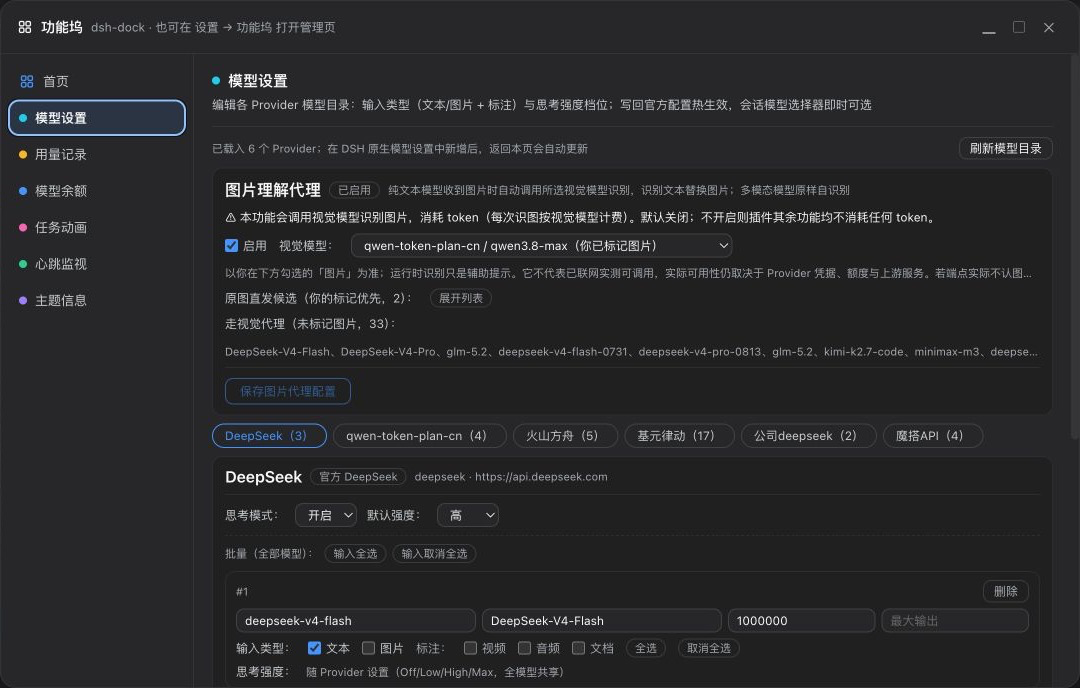
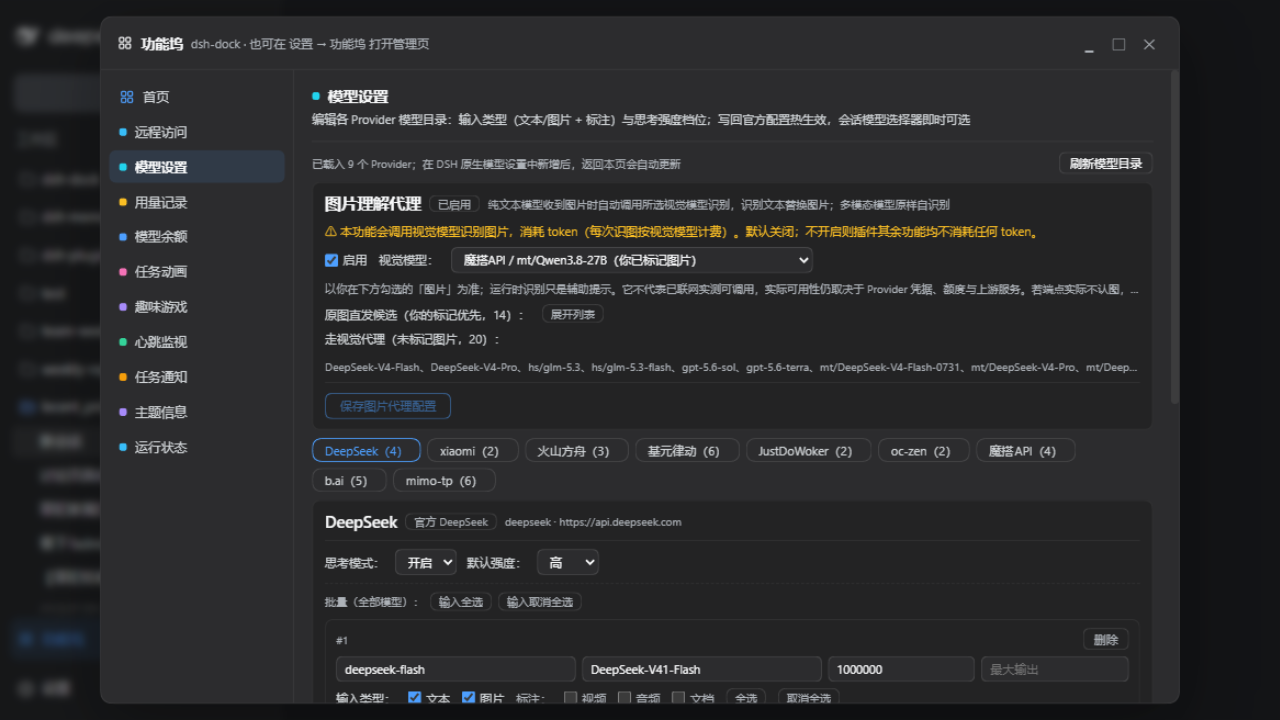
发版 v0.10.1：README 补全插件界面截图（10 张重拍，含新增 5 张）+ 文档同步
插件界面截图全部重拍（10 张，统一 1280×720），并修正 README 中已过时的界面描述。
无代码逻辑改动。

## 本次内容

- **截图全部重拍**（`screenshots/`，10 张）：
  - 新增 5 张：模型余额、任务通知、运行状态、趣味游戏、设置 → 功能坞；
  - 更新 5 张：用量记录、模型设置、任务动画、会话区随身小控件、首页总览——按 v0.10.0
    「任务通知 / 运行状态拆成独立菜单」之后的界面重拍，面板页脚版本号同步刷新为 v0.10.1。
  - 任务通知页截图对其钉钉 / 飞书 Webhook 做了**脱敏**（显示为 `••••••（已脱敏）`），
    真实群机器人地址不进仓库。
- **README**：
  - 功能一览表补【趣味游戏】条目；
  - 把已过时的「手机接力（扫码接力）」更正为菜单项实际名称【远程访问】（描述改为账号密码
    登录网关口径）；
  - 「各功能使用」下为用量记录 / 模型余额 / 任务通知 / 运行状态 / 趣味游戏补对应截图；
    「启用 / 停用功能」补设置页截图（文件内该整段有重复副本，两处同步）。
- **CHANGELOG.md**：新增 v0.10.1 段；恢复「未发布（下一版）— 开发中」占位段。
- **docs/session-notes.md**：新增 2026-09-10 一节，记录「模型列表 / 侧边栏加载慢」的定位结论
  ——是宿主进程内 dsh 自身的空转（`dsh-agent-presets` 反复扫描 preset 目录 + `commands/change`
  反馈回路），与 dsh-dock 无关：停用插件全部功能、乃至移走 `dsh-dock` agent preset 后循环依旧，
  新起的 dsh 实例（0.1.5-rc.1）均无此现象；插件用到的宿主 API 在 rc.1 中均存在。本次未改插件代码。
- 版本号两处对齐 `0.10.1`（`package.json` + `src/client.jsx` 的 `DOCK_VERSION`），
  `npm run build:client` 重建 `client.js`。

## 验证

- `npm run build:client` 通过（产物含 0.10.1）。
- `npm run test:client` 全绿：10 个内置功能视图渲染正常 + 错误隔离 + 菜单/浮层 + 双半部 id 一致。
- `npm run test:host` 全绿。
- `npm pack --dry-run` 预览：50 个文件，含全部 10 张截图，版本 0.10.1。

diff --git a/src/client.jsx b/src/client.jsx
@@ -30,7 +30,7 @@ import { feature as fGames } from "../features/games/view.jsx";
 import { feature as fMobileRelay } from "../features/mobile-relay/view.jsx";
 
 const name = "dsh-dock";
-const DOCK_VERSION = "0.10.0";
+const DOCK_VERSION = "0.10.1";
 
 // ---- 内置功能注册表：新功能 = features/<id>/ 加模块 + 这里 import 一行 ----
 const BUILTIN_FEATURES = [fTokenlog, fModelconfig, fHeartbeat, fTheme, fBalance, fAnimation, fNotify, fRunState, fGames, fMobileRelay];

diff --git a/client.js b/client.js
@@ -10503,7 +10503,7 @@ var feature10 = {
 };
 
 // src/client.jsx
-var DOCK_VERSION = "0.10.0";
+var DOCK_VERSION = "0.10.1";
 var BUILTIN_FEATURES = [feature, feature2, feature3, feature4, feature5, feature6, feature7, feature8, feature9, feature10];
 var PLANNED_FEATURES = [];
 var PLANNED_NOTES = {};

diff --git a/README.md b/README.md
@@ -23,8 +23,9 @@
 | **任务通知** | 任务完成 / 异常 / 需确认通知：页内卡片、6 种提示音、浏览器系统通知、钉钉/飞书群机器人推送（宿主直发，浏览器关着也能推）；与动画互相独立、各自启停 |
 | **运行状态** | 任务运行状态一览：进行中任务的阶段 / 耗时 / 回合 / 步骤 / 工具 / Token、等待确认提醒（等待的工具与说明）与最近完成记录（只读，与动画/通知共用同一份宿主侧追踪） |
 
+| **趣味游戏** | 任务等待时消磨时间的十款小游戏（五子棋、中国象棋、俄罗斯方块、推箱子、贪吃蛇、打砖块、极速赛车、坦克大战、星际躲避、反应堆解谜）；浮动窗口可拖动/缩放/最小化，不遮挡会话，靠屏幕侧边隐藏 |
 | **图片理解代理** | 图片识别等（visionproxy）；原图候选默认折叠展示，图片能力以你的声明为准 |
-| **手机接力** | 手机扫码安全接入同一 DSH（反向代理 + 任务/备注同步）；**局域网电脑直连（0.0.0.0）**——另起一个 0.0.0.0 绑定的完整 DSH 子实例，局域网电脑访问到的功能、交互与 127.0.0.1 完全一致（会话记录、工作区文件夹选择等） |
+| **远程访问** | 账号密码登录的远程入口：网关监听 `0.0.0.0` 独立端口，手机/平板/局域网电脑访问同一实例，会话与任务进度实时一致（**局域网电脑直连**：另起一个 0.0.0.0 绑定的完整 DSH 子实例，功能与 127.0.0.1 完全一致） |
 | **心跳监视 / 主题信息** | 示例功能（纯 Client） |
 
 **会话区随身小控件**：启用后，在会话输入区工具行（模型选择器左侧）显示——
@@ -87,6 +88,8 @@ dsh plugin --profile web remove dsh-dock  # 卸载
 
 停用某功能后，其菜单项、首页卡片、会话区小控件一并隐藏。
 
+![设置 → 功能坞：每个模块一张卡片，卡片开关与面板页脚开关等效](screenshots/dock-settings.png)
+
 ### 会话区随身小控件
 
 启用「模型余额」「用量记录」后，会话输入区工具行（模型选择器左侧）会出现两个小芯片：
@@ -99,6 +102,9 @@ dsh plugin --profile web remove dsh-dock  # 卸载
 ### 各功能使用
 
 **用量记录**
+
+![用量记录页：秒级时间筛选、9 张 KPI 卡、分组汇总与 15 列明细（支持 CSV 导出）](screenshots/dock-tokenlog.png)
+
 1. 打开功能坞 → 用量记录
 2. 使用顶部筛选：时间范围（秒级）、会话、提供商、模型（与提供商联动）、状态、推理强度
 3. 查看 9 张 KPI 卡（调用次数 / Token / 输入 / 缓存命中 / 命中率 / 输出 / 金额 USD / 金额 CNY / 累计耗时）
@@ -107,6 +113,9 @@ dsh plugin --profile web remove dsh-dock  # 卸载
 6. 「CSV 导出」下载当前筛选结果
 
 **模型余额**
+
+![模型余额：全部已配置 Provider 的余额/配额一屏查看（可查余额的排前面）](screenshots/dock-balance.png)
+
 1. 打开功能坞 → 模型余额
 2. 列表展示全部已配置 Provider 的余额/配额状态（每 5 分钟自动刷新，可手动「刷新」）
 
@@ -125,6 +134,8 @@ dsh plugin --profile web remove dsh-dock  # 卸载
 
 **任务通知**（从「任务动画」拆出，独立菜单项与开关）
 
+![任务通知：通知事件 / 提醒方式 / 提示音试听 / 钉钉与飞书群机器人推送（Webhook 已脱敏）](screenshots/dock-notify.png)
+
 1. 打开功能坞 → 任务通知：
    - **通知事件**：完成通知 / 异常通知 / **需确认提醒**（工具等待你批准，如沙箱越界执行命令时弹常驻卡片 + 确认音）各自独立开关
    - **提醒方式**：卡片停留时长（4 / 8 / 15 / 30 秒或常驻）、浏览器系统通知（仅页面后台时推送，首次开启会请求授权）、**提示音** 6 种 WebAudio 合成音效可选（完成 / 异常 / 确认各配一音，可单独试听）
@@ -134,6 +145,8 @@ dsh plugin --profile web remove dsh-dock  # 卸载
 3. 群机器人推送的事件筛选跟随「完成 / 异常通知」开关；通知配置经宿主 settings 持久化，重启后恢复；升级会自动把旧版存在「任务动画」里的通知配置迁移过来
 
 **运行状态**（从「任务动画」拆出，独立菜单项与开关；只读）
+
+![运行状态：进行中任务的阶段/耗时/回合/步骤/工具/Token、等待确认与最近完成（只读）](screenshots/dock-runstate.png)
 
 1. 打开功能坞 → 运行状态：
    - **进行中任务**：任务标题 + 阶段标签（思考中 / 输出中 / 编写代码 / 查资料）、模型（Provider）、已运行时长、回合 / 步骤 / 工具次数、输入↧输出↥ Token
@@ -154,7 +167,7 @@ dsh plugin --profile web remove dsh-dock  # 卸载
 **图片理解代理（visionproxy）**
 - 用于图片内容识别等场景。原图直发候选默认折叠，模型设置中勾选「图片」输入类型的模型即可走该通道；请按实际 Provider 能力选择，端点不支持时取消该标记即可恢复代理识别。
 
-**手机接力**
+**远程访问**
 
 主 DSH 默认只监听 `127.0.0.1`（官方 CLI 拒绝 `--host 0.0.0.0`，因为浏览器表层没有登录认证）。「远程访问」在**不改主实例绑定**的前提下提供带登录的远程入口：
 
@@ -162,6 +175,14 @@ dsh plugin --profile web remove dsh-dock  # 卸载
 2. **设备登录**：任何设备（电脑/手机/平板）访问 `http://<电脑IP>:<网关端口>`，自动跳转登录页，账号密码登录后使用与本机完全一致的 DSH——同一个实例，会话、正在进行的任务进度、设置实时一致。会话 Cookie 7 天滑动过期；「退出登录」按钮随时注销。
 3. **异地组网**：Tailscale/ZeroTier 等虚拟组网内直接用组网 IP 访问同一入口，效果与局域网相同。
 4. **安全机制**：密码只存加盐哈希；登录失败按来源 IP 限速（10 分钟 10 次）；修改密码后所有设备立即下线；关闭远程访问即停止网关并注销所有会话。工作区目录选择自动为浏览器浏览模式（可跨盘输入路径）；远程页面的兼容兜底（`crypto.randomUUID`）由网关注入。
+
+**趣味游戏**
+
+![趣味游戏：十款小游戏在浮动窗口里运行（棋盘对战 / 经典机台 / 街机动作），不占满屏、不遮挡会话](screenshots/dock-games.png)
+
+- 任务在后台继续执行时，游戏在局部浮动窗口里运行（可拖动、可调大小、可最大化/最小化、不遮挡会话内容）。
+- 屏幕侧边的「趣味游戏」磁吸入口贴在左边栏右缘（不挡工作区目录），可换上下部位、左右换边，位置会被记住。
+- 十款小游戏：五子棋、中国象棋（你 vs AI）、俄罗斯方块、推箱子、贪吃蛇、打砖块、极速赛车、坦克大战、星际躲避、反应堆解谜；都支持键盘（配套的也配了按钮）操作。
 
 **心跳监视 / 主题信息** | 示例功能（纯 Client） |
 
@@ -225,6 +246,8 @@ dsh plugin --profile web remove dsh-dock  # 卸载
 
 停用某功能后，其菜单项、首页卡片、会话区小控件一并隐藏。
 
+![设置 → 功能坞：每个模块一张卡片，卡片开关与面板页脚开关等效](screenshots/dock-settings.png)
+
 ### 会话区随身小控件
 
 启用「模型余额」「用量记录」后，会话输入区工具行（模型选择器左侧）会出现两个小芯片：
@@ -237,6 +260,9 @@ dsh plugin --profile web remove dsh-dock  # 卸载
 ### 各功能使用
 
 **用量记录**
+
+![用量记录页：秒级时间筛选、9 张 KPI 卡、分组汇总与 15 列明细（支持 CSV 导出）](screenshots/dock-tokenlog.png)
+
 1. 打开功能坞 → 用量记录
 2. 使用顶部筛选：时间范围（秒级）、会话、提供商、模型（与提供商联动）、状态、推理强度
 3. 查看 9 张 KPI 卡（调用次数 / Token / 输入 / 缓存命中 / 命中率 / 输出 / 金额 USD / 金额 CNY / 累计耗时）
@@ -245,6 +271,9 @@ dsh plugin --profile web remove dsh-dock  # 卸载
 6. 「CSV 导出」下载当前筛选结果
 
 **模型余额**
+
+![模型余额：全部已配置 Provider 的余额/配额一屏查看（可查余额的排前面）](screenshots/dock-balance.png)
+
 1. 打开功能坞 → 模型余额
 2. 列表展示全部已配置 Provider 的余额/配额状态（每 5 分钟自动刷新，可手动「刷新」）
 
@@ -263,6 +292,8 @@ dsh plugin --profile web remove dsh-dock  # 卸载
 
 **任务通知**（从「任务动画」拆出，独立菜单项与开关）
 
+![任务通知：通知事件 / 提醒方式 / 提示音试听 / 钉钉与飞书群机器人推送（Webhook 已脱敏）](screenshots/dock-notify.png)
+
 1. 打开功能坞 → 任务通知：
    - **通知事件**：完成通知 / 异常通知 / **需确认提醒**（工具等待你批准，如沙箱越界执行命令时弹常驻卡片 + 确认音）各自独立开关
    - **提醒方式**：卡片停留时长（4 / 8 / 15 / 30 秒或常驻）、浏览器系统通知（仅页面后台时推送，首次开启会请求授权）、**提示音** 6 种 WebAudio 合成音效可选（完成 / 异常 / 确认各配一音，可单独试听）
@@ -272,6 +303,8 @@ dsh plugin --profile web remove dsh-dock  # 卸载
 3. 群机器人推送的事件筛选跟随「完成 / 异常通知」开关；通知配置经宿主 settings 持久化，重启后恢复；升级会自动把旧版存在「任务动画」里的通知配置迁移过来
 
 **运行状态**（从「任务动画」拆出，独立菜单项与开关；只读）
+
+![运行状态：进行中任务的阶段/耗时/回合/步骤/工具/Token、等待确认与最近完成（只读）](screenshots/dock-runstate.png)
 
 1. 打开功能坞 → 运行状态：
    - **进行中任务**：任务标题 + 阶段标签（思考中 / 输出中 / 编写代码 / 查资料）、模型（Provider）、已运行时长、回合 / 步骤 / 工具次数、输入↧输出↥ Token
@@ -292,13 +325,21 @@ dsh plugin --profile web remove dsh-dock  # 卸载
 **图片理解代理（visionproxy）**
 - 用于图片内容识别等场景。原图直发候选默认折叠，模型设置中勾选「图片」输入类型的模型即可走该通道；请按实际 Provider 能力选择，端点不支持时取消该标记即可恢复代理识别。
 
-**手机接力**
+**远程访问**
 
 主 DSH 默认只监听 `127.0.0.1`（官方 CLI 拒绝 `--host 0.0.0.0`，因为浏览器表层没有登录认证）。「远程访问」提供**账号密码登录的网关**作为唯一远程入口，主实例保持仅本机：
 
 1. **账号密码登录网关（唯一远程入口）**：在功能坞「远程访问」页设置账号密码并点开启，网关监听 `0.0.0.0` 的独立端口（默认**主端口+1**，如 3080 → 3081，可改）。所有设备（电脑/手机/平板）访问 `http://<电脑IP>:<网关端口>`，未登录自动跳转登录页，登录后进入的是**同一个 DSH 进程**——历史会话、工作区（含浏览式选目录）、正在进行的任务进度、设置实时一致。工作区目录选择钉为浏览器浏览模式（远程设备不能弹本机对话框）；远程页面的兼容兜底（`crypto.randomUUID`）由网关注入。
    - 密码只存加盐哈希；登录失败按来源 IP 限速（10 分钟 10 次）；修改密码后所有设备立即下线；关闭远程访问即停止网关并注销所有会话。
    - 旧版「服务器模式（0.0.0.0）」与「扫码令牌接力」已被此方案取代：前者把无认证的 DSH 裸露给局域网，后者双实例任务状态不同步。开启远程访问时会自动清理旧的 0.0.0.0 webserver 补丁行（提示重启后回到仅本机）。
+
+**趣味游戏**
+
+![趣味游戏：十款小游戏在浮动窗口里运行（棋盘对战 / 经典机台 / 街机动作），不占满屏、不遮挡会话](screenshots/dock-games.png)
+
+- 任务在后台继续执行时，游戏在局部浮动窗口里运行（可拖动、可调大小、可最大化/最小化、不遮挡会话内容）。
+- 屏幕侧边的「趣味游戏」磁吸入口贴在左边栏右缘（不挡工作区目录），可换上下部位、左右换边，位置会被记住。
+- 十款小游戏：五子棋、中国象棋（你 vs AI）、俄罗斯方块、推箱子、贪吃蛇、打砖块、极速赛车、坦克大战、星际躲避、反应堆解谜；都支持键盘（配套的也配了按钮）操作。
 
 **心跳监视 / 主题信息**
 - 示例功能，展示纯 Client 功能模块的写法

diff --git a/docs/workflow.md b/docs/workflow.md
@@ -8,10 +8,15 @@
 | 远端 | 地址 | 用途 |
 |---|---|---|
 | `origin` | `ssh://git@172.18.99.124:9022/wycto/dsh-dock.git`（自建 Gitea） | **开发库**：日常提交只推这里 |
-| `github` | `git@github.com:wycto/dsh-dock.git` | **发版库**：只在发版时同步 + 打 tag，npm 也以它为主页 |
+| `github` | `git@github.com:wycto/dsh-dock.git` | **发版库**：只在发版时同步（每次一条发版提交）+ 打 tag，npm 也以它为主页 |
 
 - 开发阶段**绝不推 `github`**；它只反映已发布的版本。
-- 两个远端的 `main` 在发版前应当一致（发版时才把开发提交推上去）。
+- **github 不收分批的开发提交**：每次发版把自上次发版以来的代码**压成一条**「发版」提交
+  （主标题写发版，正文汇总本版功能内容）推上去（见第 3 节第 8 步）；**既有历史原样保留，
+  不重写不删**——历史记录必须一直可见。
+- 本地 `release` 分支跟踪 `github/main`，只随发版脚本前移，**不要推 `origin`**。
+- 发版后两个远端的**代码内容**一致（树相同），提交历史不同：origin 是完整开发史；
+  github 在新规起点（v0.10.0）之前的完整历史保留，之后每次发版只多一条发版提交。
 
 ## 2. 开发阶段（默认状态）
 
@@ -62,15 +67,22 @@ Invoke-WebRequest http://127.0.0.1:3080/dsh-dock/<feature>/status -Method POST `
 4. **重建产物**：`npm run build:client`（版本号会进 `client.js`）。
 5. **全量测试**：`npm run test:client` + `npm run test:host` 全绿，无跳过。
 6. **复查文档**：README 里版本相关描述、`package.json` 的 description、功能一览表。
-7. **提交**：备注写 `发版 vX.Y.Z：<一句话要点>`，正文列本版变更（从 CHANGELOG 未发布段提炼）。
-8. **推两个远端**：`git push origin main` → `git push github main`。
-9. **打 tag 并推送**：
+7. **提交并推 `origin`**：备注写 `发版 vX.Y.Z：<一句话要点>`，正文列本版变更（从 CHANGELOG
+   未发布段提炼），保存成 message 文件（如 `.git/RELEASE_MSG.txt`）——第 8 步还要用；
+   `git push origin main`（开发库收全部提交：开发提交 + 这条发版提交）。
+8. **同步 `github`（一条提交，不分批）**：发版库不收开发提交——
+   `./scripts/push-github-release.sh <message-file>` 把 main 的**整棵树**压成一条
+   「发版 vX.Y.Z」提交推到 `github/main`：父提交是上一次发版提交，正文汇总本版功能内容
+   （可直接复用第 7 步的 message 文件）。本地 `release` 分支随之前移 = `github/main`。
+   正常发版是快进推送，不需要 force。
+9. **打 tag 并推送**（tag 指向开发库的发版提交；在 github 上它不在 main 线上，但树一致）：
    ```bash
    git tag -a vX.Y.Z -m "dsh-dock vX.Y.Z"
    git push origin vX.Y.Z
    git push github vX.Y.Z
    ```
 10. **发布 npm**：`./scripts/publish.sh`（先 `npm pack --dry-run` 预览、检查登录态，再 `npm publish`）。
+    本机 `bash` 会解析到 WSL，请用 Git Bash：`& "D:\Program Files\Git\bin\bash.exe" ./scripts/publish.sh`。
     若遇到 npm 缓存目录属主导致的 `EPERM`：`CACHE_DIR=/tmp/dsh-dock-npm-cache ./scripts/publish.sh`。
 11. **确认**：npm 页面版本、GitHub Release（可选）、本地 `git status` 干净。
 12. 发版后**不要**顺手改版本号回开发态——下一次开发提交按第 2 节走，直到下次发版。
@@ -100,6 +112,8 @@ features/<id>/
   再跑 `node scripts/build-client.mjs`。
 - **git 推送**：沙箱下 MSYS `ssh.exe` 会因 `CreateFileMapping … Win32 error 5` 起不来，
   推送需要放宽一次文件沙箱权限。
+- **Git Bash**：`bash` 在本机会解析到 WSL（CRLF 脚本报 `set: -e: invalid option` 一类错），
+  跑 `scripts/*.sh` 请用 `"D:\Program Files\Git\bin\bash.exe"`。
 - **`dsh web` 重启**：宿主半部改动（新路由、schema、迁移）必须重启才生效；重启后浏览器刷新即可。
 - **外链 watch 进程**：本机可能有外部进程在源文件变更后自动重建 `client.js`；以最新产物为准。
 - **settings 文件**：`C:\Users\wzy60\.dsh\settings.yaml` 的 `dsh-dock:` 段；改坏了可对照

diff --git a/CHANGELOG.md b/CHANGELOG.md
@@ -2,6 +2,18 @@
 
 本文件记录 dsh-dock 各版本的变更。格式参考 [Keep a Changelog](https://keepachangelog.com/zh-CN/)。
 
+## 未发布（下一版）— 开发中
+
+（暂无）
+
+## v0.10.1 — 2026-09-10
+
+### 文档
+
+- **插件界面截图全部重拍**（`screenshots/`，10 张，统一 1280×720）：新增【模型余额】【任务通知】【运行状态】【趣味游戏】【设置 → 功能坞】五张；【用量记录】【模型设置】【任务动画】【会话区随身小控件】四张按 v0.10.0「任务通知 / 运行状态拆成独立菜单」之后的界面更新，页脚版本号同步刷新。任务通知页截图对其钉钉 / 飞书 Webhook 做了脱敏（显示为 `••••••（已脱敏）`），真实群机器人地址不进仓库。
+- **README 界面章节补齐**：功能一览表补【趣味游戏】条目；把已过时的「手机接力（扫码接力）」更正为菜单项实际名称【远程访问】（描述也改为账号密码网关口径）；「各功能使用」下为用量记录 / 模型余额 / 任务通知 / 运行状态 / 趣味游戏补上对应截图，「启用 / 停用功能」补设置页截图（含文件内重复副本段，两处同步）。
+- `docs/session-notes.md` 记录「模型列表 / 侧边栏加载慢」的定位结论：是**宿主进程内 dsh 自身的空转**（`dsh-agent-presets` 反复扫描 preset 目录 + `commands/change` 反馈回路），与 dsh-dock 无关——停用插件全部功能、乃至移走 `dsh-dock` agent preset 后循环依旧，新起的 dsh 实例（0.1.5-rc.1）均无此现象；插件用到的宿主 API（`llm.listConfigurableProviders` / `resolveModelInfo` / `prepareCall` / `BlockAssembler`、`credentials.credentialRef` 等）在 rc.1 中均存在。
+
 ## v0.10.0 — 2026-09-09
 
 ### 新增
